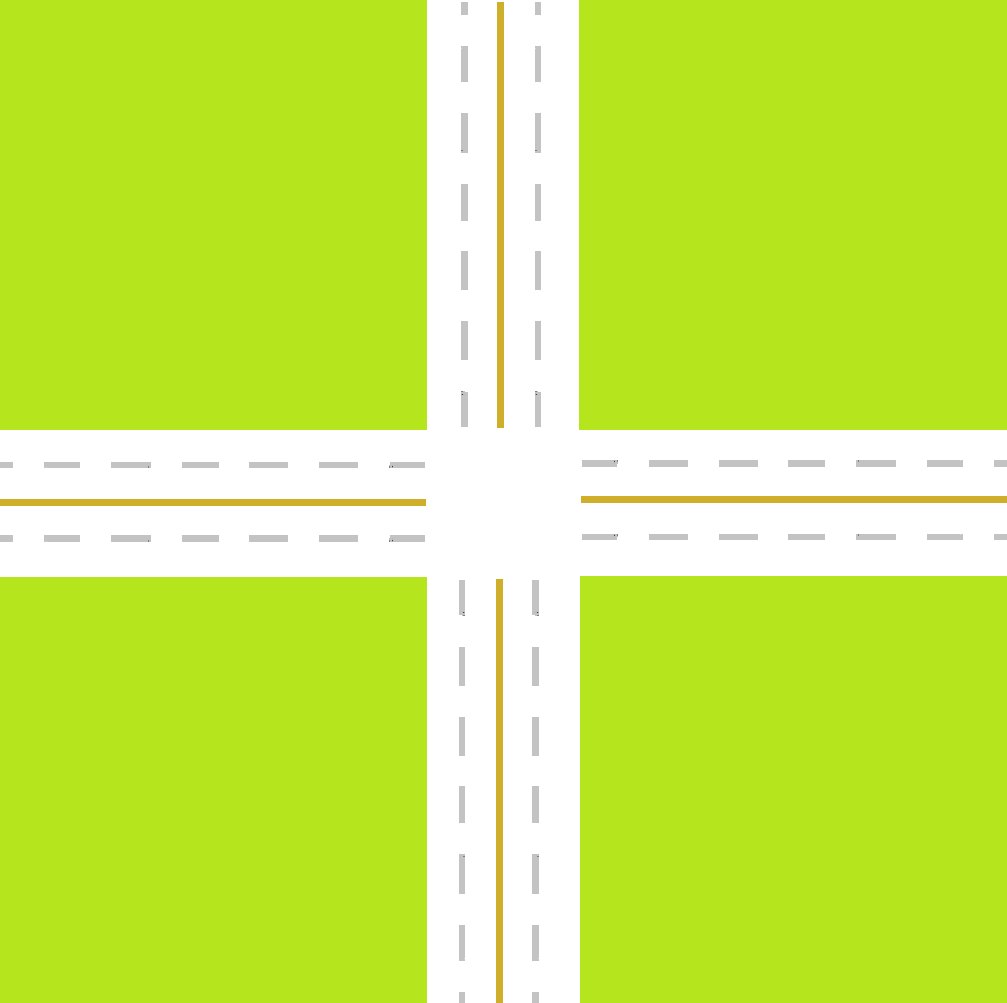
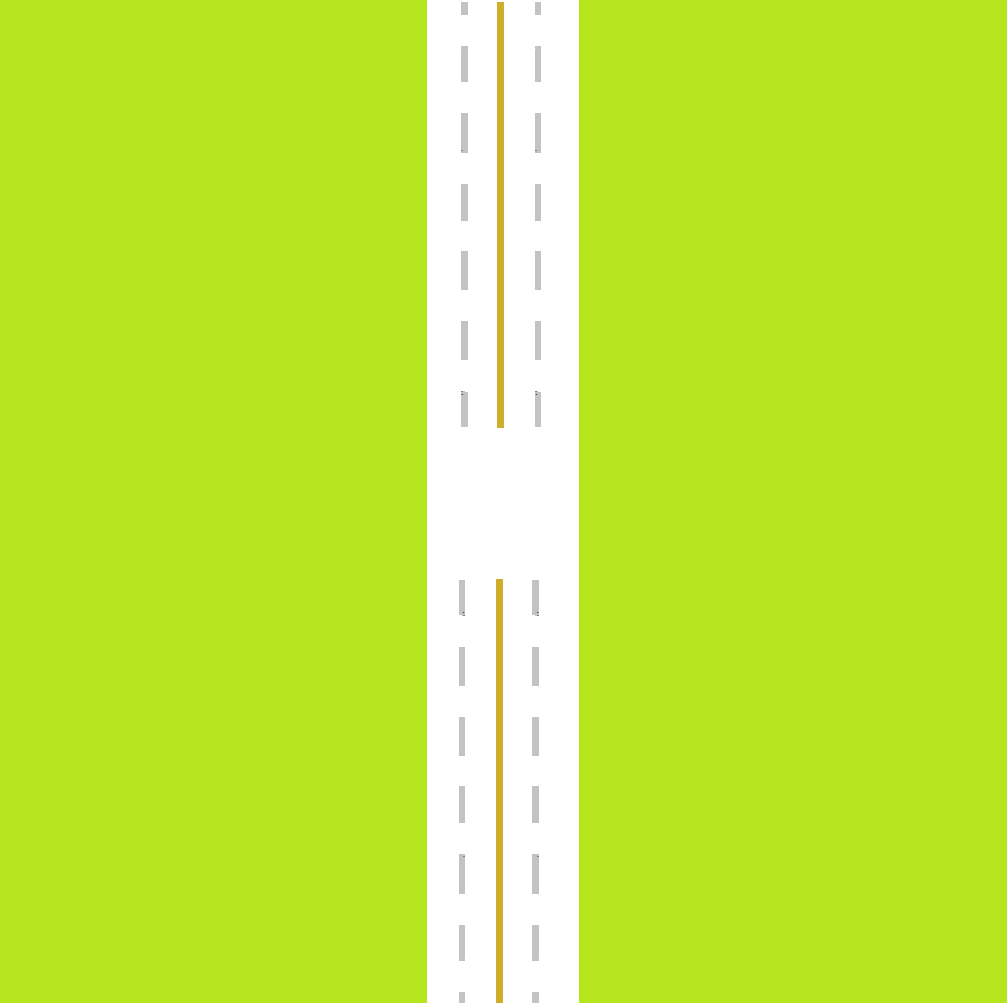
Changes to Vehicle Collision Simulation 1) Remoed left to right movement and vice versa 2) Added starting position (center, back)

Changed region(s): [[0.5541, 0.4018, 1.0, 0.5872], [0.0, 0.4018, 0.431, 0.5872]]

diff --git a/dist/AccidentProject.html b/dist/AccidentProject.html
@@ -4,7 +4,7 @@
     function launchApplication(jnlpfile) {
         dtjava.launch(            {
                 url : 'AccidentProject.jnlp',
[2 lines of base64/hex data omitted]
             },
             {
                 javafx : '8.0+'
@@ -24,7 +24,7 @@
                 placeholder : 'javafx-app-placeholder',
                 width : '800',
                 height : '600',
[2 lines of base64/hex data omitted]
             },
             {
                 javafx : '8.0+'

diff --git a/src/accidentproject/VehicleCollisionsController.java b/src/accidentproject/VehicleCollisionsController.java
@@ -39,7 +39,8 @@ public class VehicleCollisionsController {
     @FXML private GridPane massGrid;
     @FXML private GridPane velocityGrid;
     @FXML private GridPane accelerationGrid;
-    @FXML private GridPane directionGrid;
+    @FXML private GridPane sLocationGrid;
+    @FXML private GridPane sPositionGrid;
     @FXML private Button nbreVehicleBtn;
     @FXML private ImageView backgroundImage;
     @FXML private Text nbreVehicleText;
@@ -47,16 +48,19 @@ public class VehicleCollisionsController {
     
     //Create datafields
     private final String[] startLocations = {"up", "down", "left", "right"};
+    private final String[] startPositions = {"back", "center"};
     ExecutorService executor = Executors.newFixedThreadPool(1);
     private ArrayList<VehicleCrash> vehicleArray = new ArrayList<>();
     Alert alert = new Alert(AlertType.WARNING);
     private TextField[] massArray;
     private TextField[] velocityArray;
     private TextField[] accelerationArray;
-    private ComboBox[] directionArray;
+    private ComboBox[] sLocationArray;
+    private ComboBox[] sPositionArray;
 //    private ArrayList<VehicleCrash> vehicles = new ArrayList<>();
     private VehicleCrash[] vehicles;
-    private ObservableList<String> items = FXCollections.observableArrayList(startLocations);
+    private ObservableList<String> sLocationItems = FXCollections.observableArrayList(startLocations);
+    private ObservableList<String> sPositionItems = FXCollections.observableArrayList(startPositions);
 
     //Create initialize mesthod
     public void initialize(){
@@ -65,7 +69,8 @@ public class VehicleCollisionsController {
         massGrid.setVisible(false);
         velocityGrid.setVisible(false);
         accelerationGrid.setVisible(false);
-        directionGrid.setVisible(false);
+        sLocationGrid.setVisible(false);
+        sPositionGrid.setVisible(false);
         backgroundImage.setOpacity(0.4);
     }
     //Check for numbers of vehicle
@@ -84,7 +89,8 @@ public class VehicleCollisionsController {
             massGrid.setVisible(true);
             velocityGrid.setVisible(true);
             accelerationGrid.setVisible(true);
-            directionGrid.setVisible(true);
+            sLocationGrid.setVisible(true);
+            sPositionGrid.setVisible(true);
             nbreVehicleBtn.setVisible(false);
             nbreVehicle.setVisible(false);
             nbreVehicleText.setVisible(false);
@@ -93,48 +99,61 @@ public class VehicleCollisionsController {
             massArray = new TextField[Integer.valueOf(nbreVehicle.getText())];
             velocityArray = new TextField[Integer.valueOf(nbreVehicle.getText())];
             accelerationArray = new TextField[Integer.valueOf(nbreVehicle.getText())];
-            directionArray = new ComboBox[Integer.valueOf(nbreVehicle.getText())];
+            sLocationArray = new ComboBox[Integer.valueOf(nbreVehicle.getText())];
+            sPositionArray = new ComboBox[Integer.valueOf(nbreVehicle.getText())];
             vehicles = new VehicleCrash[Integer.valueOf(nbreVehicle.getText())];   
             
             for (int i=0; i<Integer.valueOf(nbreVehicle.getText()); i++){
                 massArray[i] = new TextField();
                 velocityArray[i] = new TextField();
                 accelerationArray[i] = new TextField();
-                directionArray[i] = new ComboBox();
-                directionArray[i].getItems().addAll(items);
+                sLocationArray[i] = new ComboBox();
+                sLocationArray[i].getItems().addAll(sLocationItems);
+                sPositionArray[i] = new ComboBox();
+                sPositionArray[i].getItems().addAll(sPositionItems);
                 
                 nbreVehicleGrid.add(new Text("Vehicle "+(i+1)), i, 0);
                 massGrid.add(massArray[i], i, 0);
                 velocityGrid.add(velocityArray[i], i, 0);
                 accelerationGrid.add(accelerationArray[i], i, 0);
-                directionGrid.add(directionArray[i], i, 0);
+                sLocationGrid.add(sLocationArray[i], i, 0);
+                sPositionGrid.add(sPositionArray[i], i, 0);
                 
             }
         }
     }
     //Start simulation
     public void onclickStart(){
-        for (int i=0; i<directionArray.length; i++){
-            if (directionArray[i].getValue().equals("up")){
+        for (int i=0; i<sLocationArray.length; i++){
+            if (sLocationArray[i].getValue().equals("up") && sPositionArray[i].getValue().equals("back")){
                 // x - 430
-                vehicles[i] = new VehicleCrash(990, 100, 0, 545, 5, "up", new Rectangle(545, 5, 20, 40));
+                vehicles[i] = new VehicleCrash(990, 100, 0, 430, 5, "up", new Rectangle(430, 5, 20, 40));
                 pane.getChildren().add(vehicles[i].getVehicle());
             }
-            if (directionArray[i].getValue().equals("down")){
+            else if (sLocationArray[i].getValue().equals("up") && sPositionArray[i].getValue().equals("center")){
+                vehicles[i] = new VehicleCrash(990, 100, 0, 430, 375, "up", new Rectangle(430, 375, 20, 40));
+                pane.getChildren().add(vehicles[i].getVehicle());
+            }
+            else if (sLocationArray[i].getValue().equals("down") && sPositionArray[i].getValue().equals("back")){
                 vehicles[i] = new VehicleCrash(2000, 200, 0, 545, 975, "down", new Rectangle(545, 675, 20, 40));
                 vehicles[i].getVehicle().setFill(Color.BLUE);
                 pane.getChildren().add(vehicles[i].getVehicle());
        
             }
-            if (directionArray[i].getValue().equals("right")){
-                vehicles[i] = new VehicleCrash(0, 0, 0, 975, 435, "right", new Rectangle(975, 435, 20, 20));
-                pane.getChildren().add(vehicles[i].getVehicle());
-
-            }
-            if (directionArray[i].getValue().equals("left")){
-                vehicles[i] = new VehicleCrash(0, 0, 0, 5, 545, "left", new Rectangle(5, 545, 20, 20));
+            else if (sLocationArray[i].getValue().equals("down") && sPositionArray[i].getValue().equals("center")){
+                vehicles[i] = new VehicleCrash(2000, 200, 0, 545, 585, "down", new Rectangle(545, 585, 20, 40));
+                vehicles[i].getVehicle().setFill(Color.BLUE);
                 pane.getChildren().add(vehicles[i].getVehicle());
             }
+//            if (directionArray[i].getValue().equals("right")){
+//                vehicles[i] = new VehicleCrash(0, 0, 0, 975, 435, "right", new Rectangle(975, 435, 20, 20));
+//                pane.getChildren().add(vehicles[i].getVehicle());
+//
+//            }
+//            if (directionArray[i].getValue().equals("left")){
+//                vehicles[i] = new VehicleCrash(0, 0, 0, 5, 545, "left", new Rectangle(5, 545, 20, 20));
+//                pane.getChildren().add(vehicles[i].getVehicle());
+//            }
         }
         executor.execute(new vehicleMovementTask());
     }
